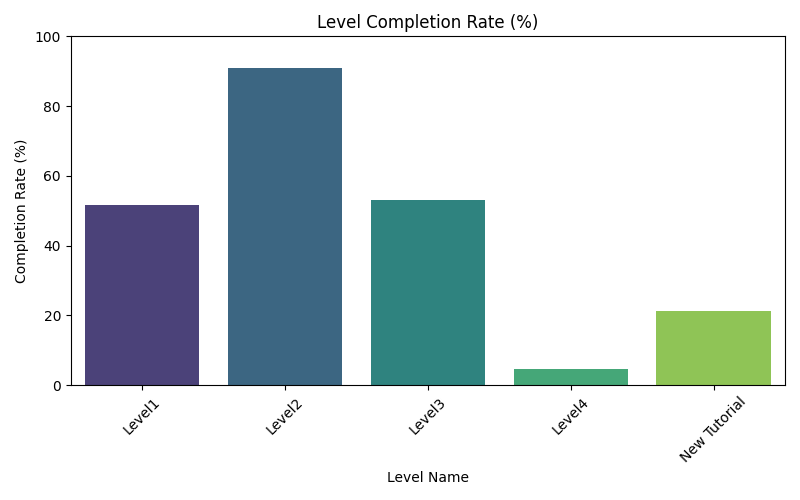
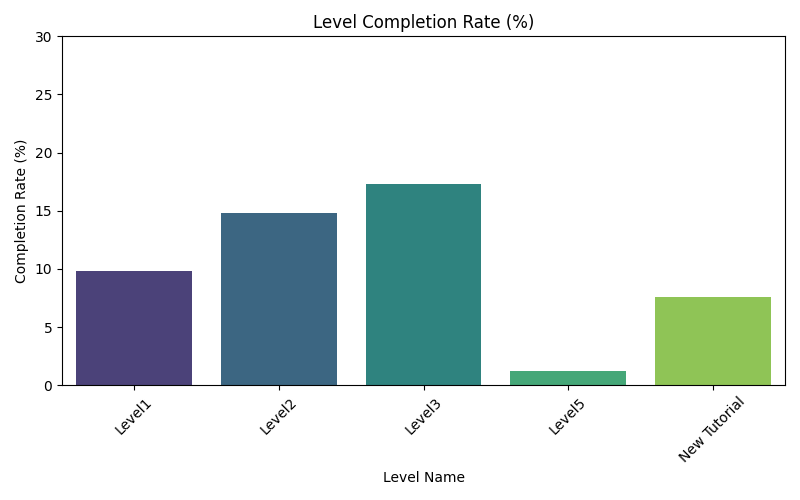
New graphs for analytics and hypothesis

diff --git a/Assets/Analytics/completion_rate.py b/Assets/Analytics/completion_rate.py
@@ -4,6 +4,7 @@ import pandas as pd
 from firebase_admin import db
 from firebase_admin import credentials, db
 import firebase_admin
+import numpy as np
 
 
 cred_path = "Assets/Analytics/doppledash-2a42c-firebase-adminsdk-fbsvc-951ff5d51d.json"
@@ -59,7 +60,7 @@ def plot_completion_rate(completed_players, total_players):
     plt.title("Level Completion Rate (%)")
     plt.xlabel("Level Name")
     plt.ylabel("Completion Rate (%)")
-    plt.ylim(0, 100)
+    plt.ylim(0, 30)
     plt.xticks(rotation=45)
     plt.tight_layout()
     plt.savefig(
@@ -68,17 +69,63 @@ def plot_completion_rate(completed_players, total_players):
     plt.close()
 
 
+def plot_level_completion_time(df):
+    plt.figure(figsize=(8, 5))
+    avg_time = df.groupby('level_name')['completion_time'].mean().sort_values()
+
+    sns.barplot(x=avg_time.index,
+                y=avg_time.values,
+                palette="coolwarm")
+
+    plt.title('Average Level Completion Time')
+    plt.xlabel('Level Name')
+    plt.ylabel('Average Completion Time (seconds)')
+    plt.xticks(rotation=45)
+    plt.tight_layout()
+    plt.savefig(
+        "Assets/Analytics/Graphs/LevelCompletion/AverageCompletionTime.png")
+    plt.show()
+    plt.close()
+
+
+def plot_players_who_left_per_level(df_players, df_completion, df_deaths):
+    # Group by level
+    players_per_level = df_players.groupby('level_name')['player_id'].nunique()
+    completion_per_level = df_completion.groupby(
+        'level_name')['player_id'].nunique()
+    deaths_per_level = df_deaths.groupby('level_name')['player_id'].nunique()
+    # Players who left without dying or completing
+    players_who_left = players_per_level - completion_per_level - deaths_per_level
+
+    plt.figure(figsize=(10, 6))
+    players_who_left.plot(kind='bar', color='#FF7F50')
+    plt.title('Players Who Left Without Dying or Completing (Per Level)')
+    plt.xlabel('Level')
+    plt.ylabel('Number of Players')
+    plt.xticks(rotation=45, ha='right')
+    plt.grid(axis='y', linestyle='--', alpha=0.7)
+    plt.tight_layout()
+    plt.show()
+
+    return players_who_left
+
+
 df_players = fetch_firebase_data("players")
 df_completion = fetch_firebase_data("level_completion")
+df_deaths = fetch_firebase_data("player_deaths")
 
-discarded_levels = ['q', 'Camera Trial', 'Tutorial', 'Test', 'Level5']
+discarded_levels = ['q', 'Camera Trial', 'Tutorial', 'Test', 'Level4']
 df_players = df_players[df_players['level_name'].isin(
     discarded_levels) == False]
 df_completion = df_completion[df_completion['level_name'].isin(
     discarded_levels) == False]
+df_deaths = df_deaths[df_deaths['level_name'].isin(
+    discarded_levels) == False]
 completed_players = df_completion.groupby("level_name").size()
 total_players = df_players.groupby("level_name").size()
 
-
 plot_boxplot(df_completion)
 plot_completion_rate(completed_players, total_players)
+plot_level_completion_time(df_completion)
+plot_players_who_left_per_level(
+    df_players, df_completion, df_deaths)
